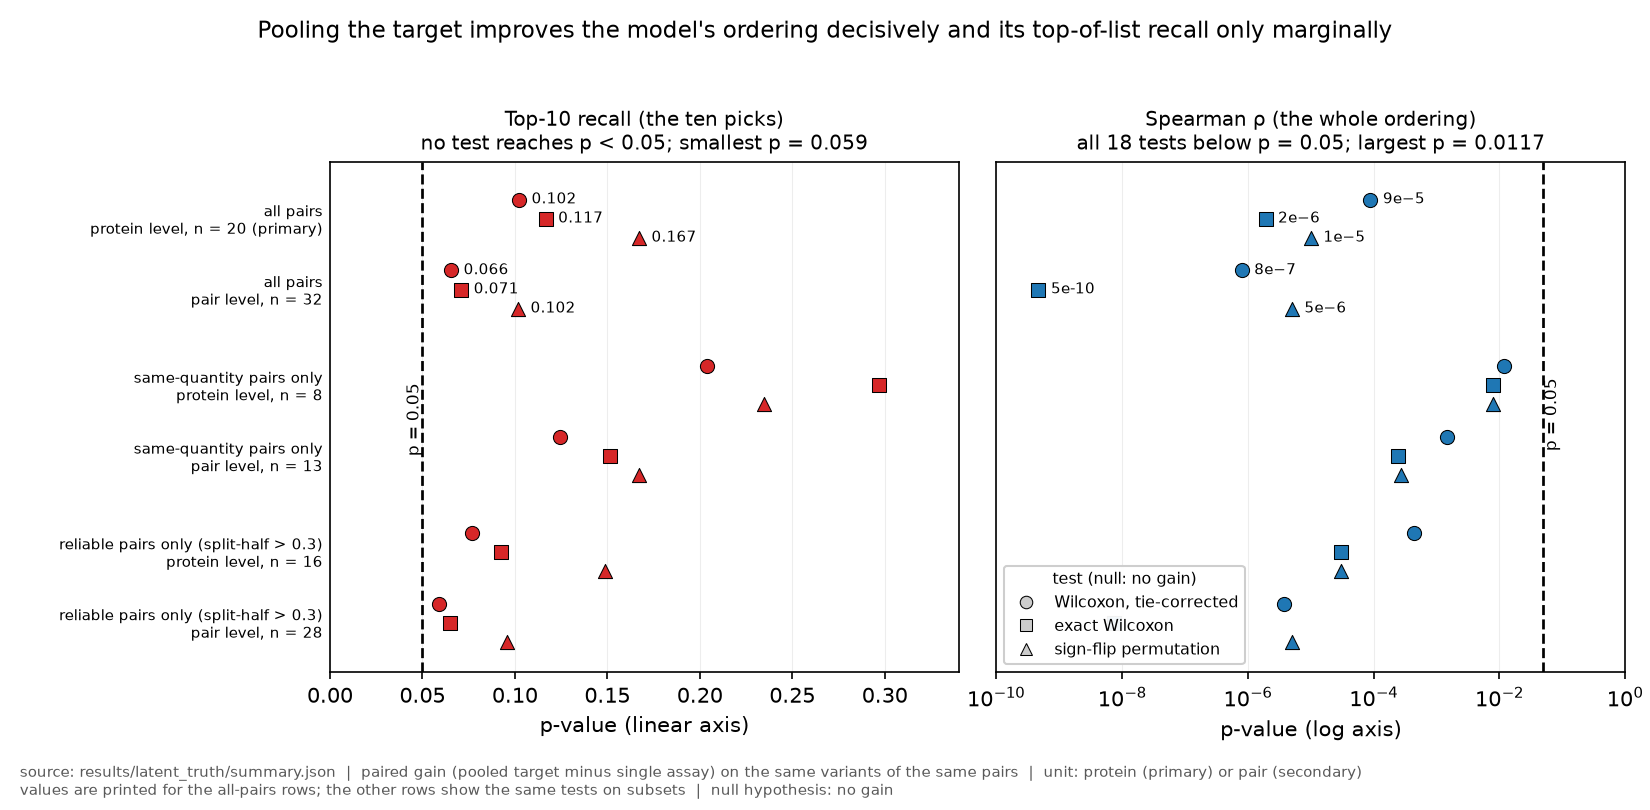
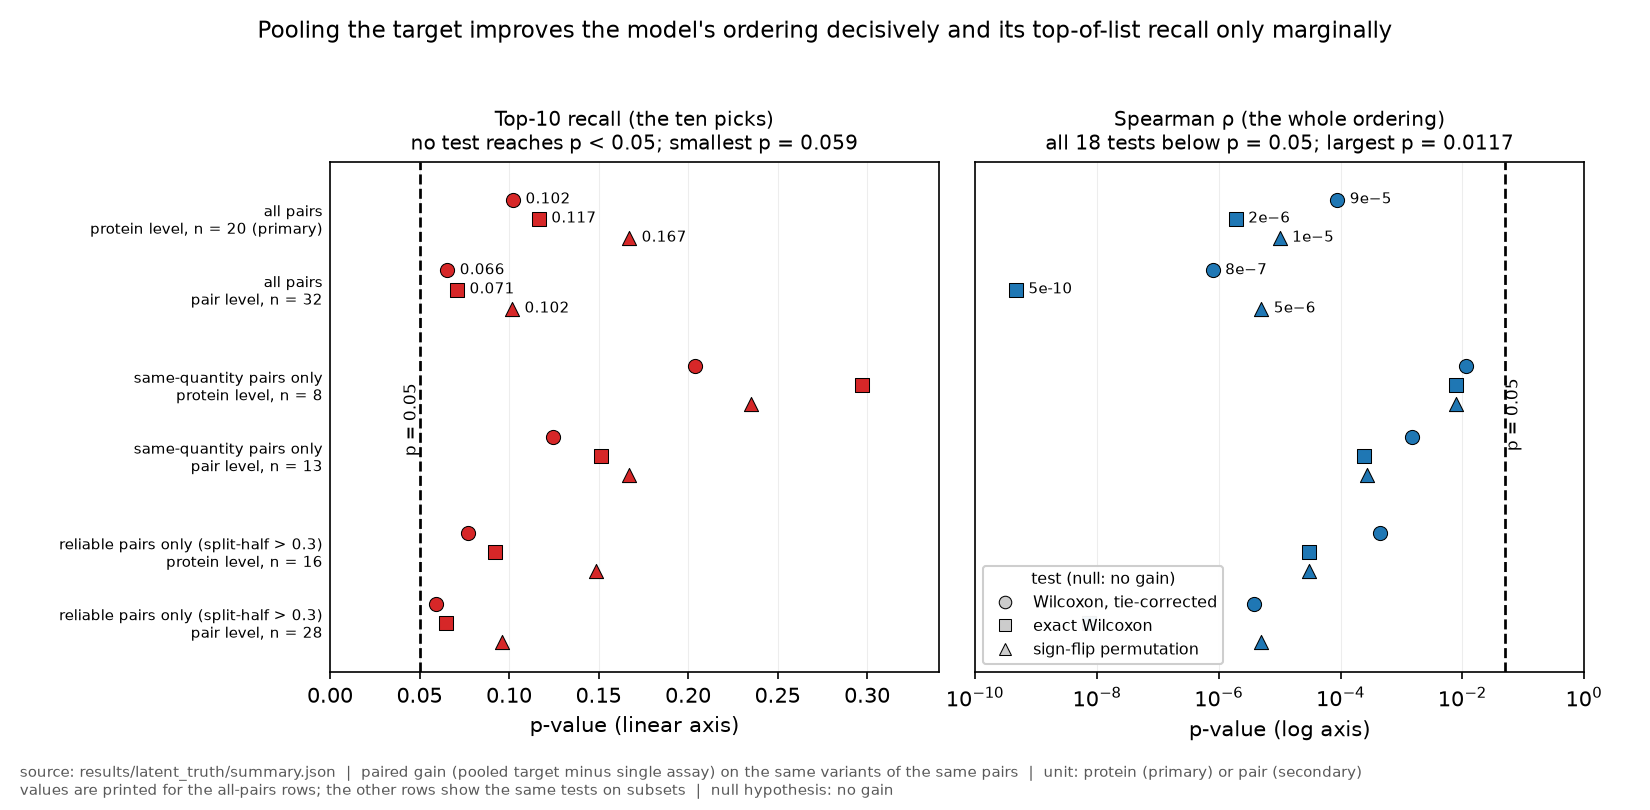
Fix four layout defects the vision pass found
Placement only - no number, colour or datum changed:

* recall_vs_rank_significance: the right panel's '10^0' tick was clipped at the
  figure edge; right margin 0.985 -> 0.96.
* his7_residual_vs_variance: the 'a share above 1 is impossible' annotation ran
  past the axes frame and the 1.75 tick was cut off. The text is now inside the
  panel on a white backing and the x limit has room (2.0).
* reproduction_check: six assays cluster near 0.5-0.6 and their labels printed on
  top of each other, making the panel unreadable. Offsets now alternate above and
  below the points.
* method_comparison: regenerated alongside, since the legend was added in
  a65415a and the PNG had drifted from its generator.

All four re-rendered; landscape re-rendered too (same run) and unchanged.

diff --git a/scripts/make_figures.py b/scripts/make_figures.py
@@ -104,8 +104,12 @@ def fig_vs_official(df):
     ax.plot(lim, lim, ls="--", lw=1, color="grey")
     ax.scatter(xs, ys, s=50, edgecolor="black", linewidth=0.5, zorder=3)
     for x, y, lab in zip(xs, ys, labels):
-        ax.annotate(lab, (x, y), xytext=(4, 3), textcoords="offset points",
-                    fontsize=7)
+        # Alternate the offset (2026-11-15): six assays cluster near 0.5-0.6 and
+        # their labels printed on top of each other, which made the panel's own
+        # point unreadable.
+        dx, dy = ((4, 3) if float(x) + float(y) >= 1.1 else (4, -9))
+        ax.annotate(lab, (x, y), xytext=(dx, dy), textcoords="offset points",
+                    fontsize=6.5, ha="left" if dx > 0 else "right")
 
     resid = np.array(ys) - np.array(xs)
     ax.set(xlabel="ProteinGym published Spearman",
@@ -520,7 +524,7 @@ def fig_recall_vs_rank_p():
     cross = sum(p < 0.05 for p in rec)
     fig, (axr, axs) = plt.subplots(1, 2, figsize=(11, 5.4), sharey=True,
                                    gridspec_kw=dict(wspace=0.06, left=0.2,
-                                                    right=0.985, top=0.8,
+                                                    right=0.96, top=0.8,
                                                     bottom=0.17))
     draw_pvalue_rows(axr, pvalue_panel_rows(rows, "recall", "C3"))
     axr.set_xlim(0, 0.34)
@@ -1056,9 +1060,12 @@ def fig_his7_residual():
                         f"with both singles" for i, r in a.iterrows()], fontsize=7.5)
     a1.tick_params(axis="y", length=0)
     a2.axvline(1.0, color="black", ls="--", lw=1.4, zorder=2)
-    a2.text(1.03, 1.2, "a share above 1 is impossible\nfor a real variance component:\n"
-            "the residual is mostly noise", fontsize=7.5, va="center", ha="left")
-    a2.set_xlim(0, 1.75)
+    # Placement (2026-11-15): the annotation ran past the axes frame and the
+    # 1.75 tick was clipped. Text is inside the limit now and the limit has room.
+    a2.text(1.06, 1.2, "a share above 1 is impossible\nfor a real variance component:\n"
+            "the residual is mostly noise", fontsize=7.2, va="center", ha="left",
+            bbox=dict(boxstyle="round,pad=0.2", fc="white", ec="grey", lw=0.5, alpha=0.9))
+    a2.set_xlim(0, 2.0)
     a1.set_xlim(0, float(a["double_total_sd_z"].max()) * 1.2)
     a2.set_ylim(-0.6, n - 0.1)
     for ax in (a1, a2):
